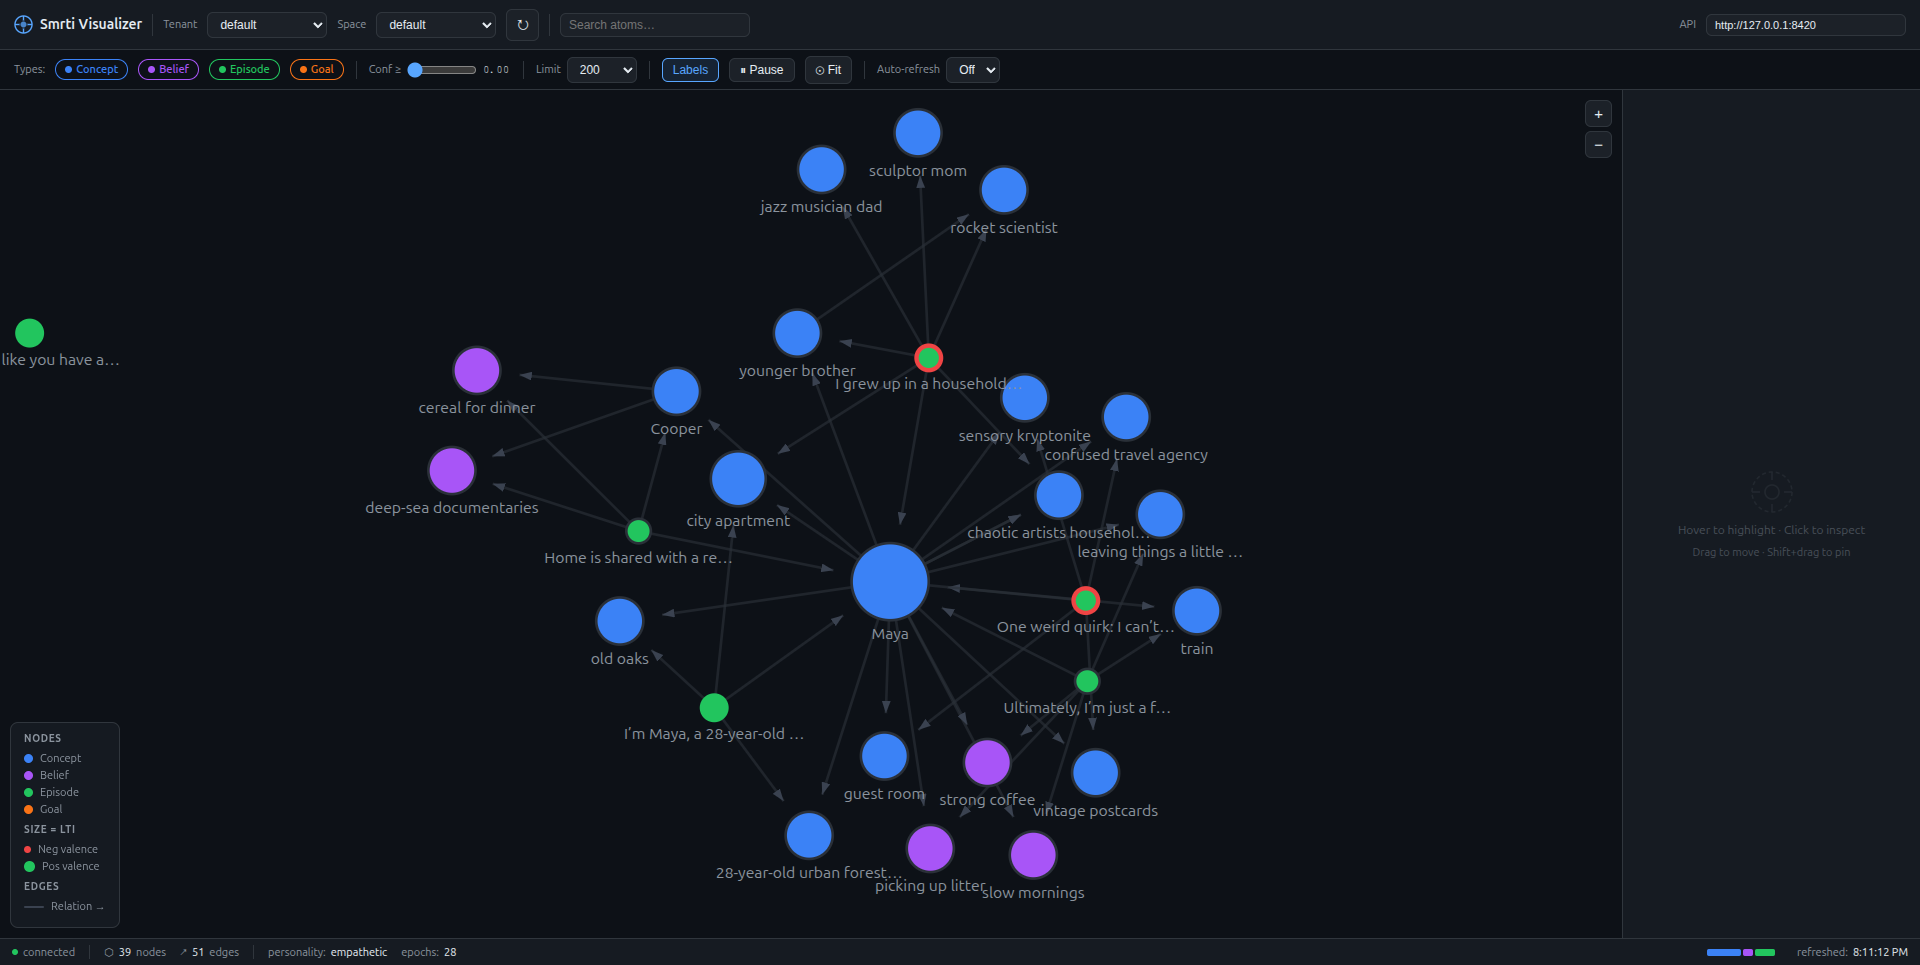
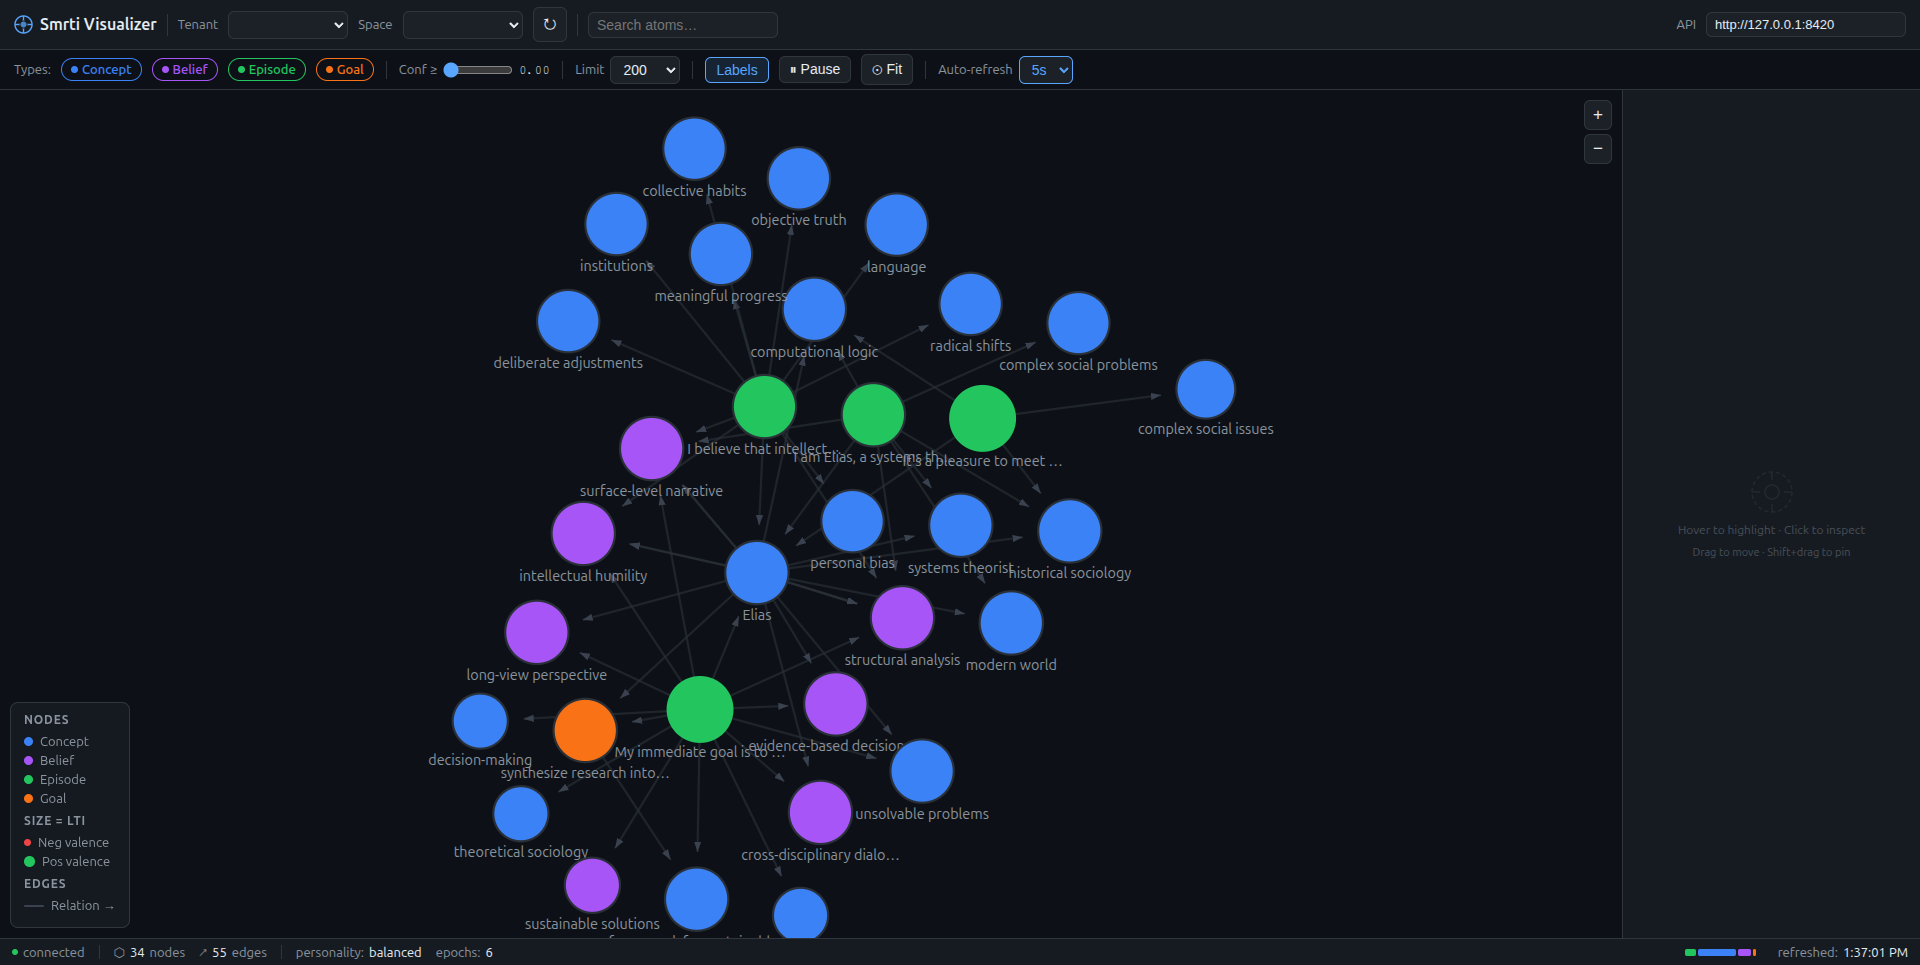
docs: add healing module and extraction serialization to architecture docs

diff --git a/CLAUDE.md b/CLAUDE.md
@@ -40,13 +40,13 @@ Smrti is an AtomSpace-inspired memory engine for AI agents. It stores beliefs as
 
 **Retrieval (`retrieval/`):** `fan_out.py` does KNN → 1-hop graph expansion → salience scoring. `salience.py` formula: `w_sim×sim + w_sti×sti + w_conf×conf + w_lti×lti + w_val×|valence|×intensity`. When valence < -0.5, weight dynamically shifts from `w_sti` to `w_valence` so old-but-critical errors outrank recent trivia. `classify.py` classifies recall results into severity levels (`critical_warning`, `known_antipattern`, `context`) based on valence/intensity/probability thresholds.
 
-**Evolution (`evolution/`):** `epoch.py` runs consolidation cycles: process evidence log → decay STI and confidence → propagate STI and valence to 1-hop neighbors → promote high-STI nodes to LTI → resolve contradictions → prune low-salience atoms. `truth.py` implements PLN (Probabilistic Logic Networks) for merging independent probability estimates. `attention.py` handles STI propagation to neighbors. `valence.py` handles emotional valence propagation.
+**Evolution (`evolution/`):** `epoch.py` runs consolidation cycles: process evidence log → decay STI and confidence → propagate STI and valence to 1-hop neighbors → heal orphaned episodes → promote high-STI nodes to LTI → resolve contradictions → prune low-salience atoms. `truth.py` implements PLN (Probabilistic Logic Networks) for merging independent probability estimates. `attention.py` handles STI propagation to neighbors. `valence.py` handles emotional valence propagation. `healing.py` detects orphaned episodes (episodes that mention concepts but no person atom) and reconnects them to the most salient person in the space, also creating low-confidence `associated` edges from person → concept so LLM-extracted relations supersede.
 
-**Extraction (`extraction/`):** `resolve.py` cascades entity resolution: exact match → alias lookup → fuzzy (RapidFuzz) → embedding similarity → create new. `sentiment.py` estimates valence via cosine similarity against positive/negative anchor embeddings — language-agnostic, used by all server modes as a fallback when callers don't provide explicit valence. `ner.py` — zero-shot NER via GLiNER2 (default model `fastino/gliner2-multi-v1`); lazy-loaded thread-safe singleton; configurable via `SMRTI_NER_MODEL`. `pronouns.py` — detects pronoun-typed entities returned by NER and merges them into named-entity atoms: first tries the alias table (`resolve_pronouns_via_aliases`), then falls back to GLiNER2 `classify_text` to pick the best candidate; also handles retroactive batch merging at extraction time. `extract.py` — hybrid GLiNER-first extraction pipeline; called by all server modes when `SMRTI_EXTRACT=1`. Three modes via `SMRTI_EXTRACT_MODE`: `hybrid` (default) runs GLiNER NER locally and only calls the LLM for claim extraction when ≥2 entities are found (reduces LLM calls ~40–60%); `llm` restores the original LLM-only behaviour; `local` skips the LLM entirely. Before each LLM extraction call, `_build_entity_context()` queries the top salient concept, belief, and goal atoms (person, organization, project, tool, location, event, goal, preference, constraint) from the memory graph and injects them as a `[Known entities]` block so the LLM can resolve pronouns ("I" → person, "we" → organization) even when the name isn't in the current message — using persisted memory, not raw conversation history. The extraction prompt includes a formal JSON schema and six few-shot examples (tool migration, org/location, error/failure with negative valence, coreference with known entities, goal/preference/constraint, event/location). `max_tokens=1024` prevents silent truncation on complex inputs. Entity lookup is case-insensitive with `setdefault` collision safety so subject/object casing mismatches never silently drop relation edges.
+**Extraction (`extraction/`):** `resolve.py` cascades entity resolution: exact match → alias lookup → fuzzy (RapidFuzz) → embedding similarity → create new. `sentiment.py` estimates valence via cosine similarity against positive/negative anchor embeddings — language-agnostic, used by all server modes as a fallback when callers don't provide explicit valence. `ner.py` — zero-shot NER via GLiNER2 (default model `fastino/gliner2-multi-v1`); lazy-loaded thread-safe singleton; configurable via `SMRTI_NER_MODEL`. `pronouns.py` — detects pronoun-typed entities returned by NER and merges them into named-entity atoms: first tries the alias table (`resolve_pronouns_via_aliases`), then falls back to GLiNER2 `classify_text` to pick the best candidate; also handles retroactive batch merging at extraction time. `extract.py` — hybrid GLiNER-first extraction pipeline; called by all server modes when `SMRTI_EXTRACT=1`. All server modes use `extract_and_link_serialized()` which acquires a per-`(tenant_id, write_space)` asyncio lock so extractions within the same session run sequentially — this ensures episode N's entities are committed before episode N+1's `_build_entity_context()` query, preventing graph fragmentation from race conditions. Cross-session concurrency is preserved. Three modes via `SMRTI_EXTRACT_MODE`: `hybrid` (default) runs GLiNER NER locally and only calls the LLM for claim extraction when ≥2 entities are found (reduces LLM calls ~40–60%); `llm` restores the original LLM-only behaviour; `local` skips the LLM entirely. Before each LLM extraction call, `_build_entity_context()` queries the top salient concept, belief, and goal atoms (person, organization, project, tool, location, event, goal, preference, constraint) from the memory graph and injects them as a `[Known entities]` block so the LLM can resolve pronouns ("I" → person, "we" → organization) even when the name isn't in the current message — using persisted memory, not raw conversation history. The extraction prompt includes a formal JSON schema and six few-shot examples (tool migration, org/location, error/failure with negative valence, coreference with known entities, goal/preference/constraint, event/location). `max_tokens=1024` prevents silent truncation on complex inputs. Entity lookup is case-insensitive with `setdefault` collision safety so subject/object casing mismatches never silently drop relation edges.
 
 **Personality (`personality/`):** `PersonalityProfile` dataclass with 16 hyperparameters. Six presets (`balanced`, `analytical`, `curious`, `empathetic`, `maverick`, `deterministic`) stored as JSON in `presets/` and loaded into the `personality` DB table per tenant/space pair. `deterministic` is optimized for agentic workflows: fast learning (lr=0.4) + slow decay (0.005), high LTI promotion threshold (0.85), laser-focus attention (boost=0.8, propagation=0.05), and similarity-gated confidence ranking.
 
-**Servers (`servers/`):** `config.py` centralises all shared env-var defaults (`SMRTI_DB`, `SMRTI_PERSONALITY`, `SMRTI_TENANT_ID`, `SMRTI_SPACE`, `SMRTI_READ_SPACES`, `SMRTI_EXTRACT`, `SMRTI_EXTRACT_MODE`, `SMRTI_EXTRACT_URL`, `SMRTI_EXTRACT_MODEL`, `SMRTI_IGNORE_PATTERNS`) read by all server modes. `SMRTI_NER_MODEL` is read directly by `extraction/ner.py` (not via `config.py`). `mcp.py` wraps Smrti as MCP stdio tools; `handle_tool()` recall response includes `severity` and `intensity` fields. All three modes (MCP, REST, proxy) auto-estimate valence via `extraction/sentiment.py` when callers don't supply an explicit value, activating the error-avoidance memory path for negative content. All three modes call `extraction/extract.py` after every `remember` operation to extract entities/claims and build concept nodes + relation edges (enabled by default via `SMRTI_EXTRACT`; proxy uses request auth, proxy and REST forward the request `Authorization` header; MCP passes no auth — works as-is with local LLMs). `rest.py` is a FastAPI REST server. `proxy.py` is an OpenAI-compatible proxy with severity-aware memory injection: recalled memories are split into two sections — behavioral constraints (`YOU MUST NOT`, `AVOID` for `critical_warning`/`known_antipattern`) and background context (`Note:` for `context`), each with its own preamble — and contextual query reformulation (configurable via `SMRTI_QUERY_MODE`, `SMRTI_QUERY_CONTEXT_MSGS`, `SMRTI_QUERY_MAX_CHARS`). All severity levels include a `confidence` qualifier. `reflect_loop.py` runs periodic background consolidation across all server modes (interval controlled by `SMRTI_REFLECT_INTERVAL`, default 60s, 0 to disable). `tools.py` defines the 7 shared tool schemas (remember, recall, reflect, believe, forget, status, personality).
+**Servers (`servers/`):** `config.py` centralises all shared env-var defaults (`SMRTI_DB`, `SMRTI_PERSONALITY`, `SMRTI_TENANT_ID`, `SMRTI_SPACE`, `SMRTI_READ_SPACES`, `SMRTI_EXTRACT`, `SMRTI_EXTRACT_MODE`, `SMRTI_EXTRACT_URL`, `SMRTI_EXTRACT_MODEL`, `SMRTI_IGNORE_PATTERNS`) read by all server modes. `SMRTI_NER_MODEL` is read directly by `extraction/ner.py` (not via `config.py`). `mcp.py` wraps Smrti as MCP stdio tools; `handle_tool()` recall response includes `severity` and `intensity` fields. All three modes (MCP, REST, proxy) auto-estimate valence via `extraction/sentiment.py` when callers don't supply an explicit value, activating the error-avoidance memory path for negative content. All three modes call `extraction/extract.py` (via `extract_and_link_serialized`) after every `remember` operation to extract entities/claims and build concept nodes + relation edges (enabled by default via `SMRTI_EXTRACT`; proxy uses request auth, proxy and REST forward the request `Authorization` header; MCP passes no auth — works as-is with local LLMs). The proxy's `_store_exchange` awaits user extraction before assistant extraction sequentially so the user's entities are visible when extracting the assistant's response. `rest.py` is a FastAPI REST server. `proxy.py` is an OpenAI-compatible proxy with severity-aware memory injection: recalled memories are split into two sections — behavioral constraints (`YOU MUST NOT`, `AVOID` for `critical_warning`/`known_antipattern`) and background context (`Note:` for `context`), each with its own preamble — and contextual query reformulation (configurable via `SMRTI_QUERY_MODE`, `SMRTI_QUERY_CONTEXT_MSGS`, `SMRTI_QUERY_MAX_CHARS`). All severity levels include a `confidence` qualifier. `reflect_loop.py` runs periodic background consolidation across all server modes (interval controlled by `SMRTI_REFLECT_INTERVAL`, default 60s, 0 to disable). `tools.py` defines the 7 shared tool schemas (remember, recall, reflect, believe, forget, status, personality).
 
 ## Key Design Decisions
 

diff --git a/README.md b/README.md
@@ -297,6 +297,7 @@ graph TD
         EPO["epoch"]
         TRU["truth"]
         CON["connections"]
+        HEA["healing"]
     end
 
     subgraph Extraction
@@ -329,10 +330,11 @@ When valence < -0.5, weight shifts dynamically from w_sti to w_val so critical e
 1. Process pending evidence via Bayesian update
 2. Decay STI and confidence
 3. Propagate STI and valence to 1-hop neighbors
-4. Promote high-STI atoms to LTI
-5. Resolve contradictions (weaken less confident belief)
-6. Discover cross-domain connections (every 10th epoch)
-7. Prune atoms below confidence/LTI floors
+4. Heal orphaned episodes (link to most salient person)
+5. Promote high-STI atoms to LTI
+6. Resolve contradictions (weaken less confident belief)
+7. Discover cross-domain connections (every 10th epoch)
+8. Prune atoms below confidence/LTI floors
 
 ## Data Model
 
